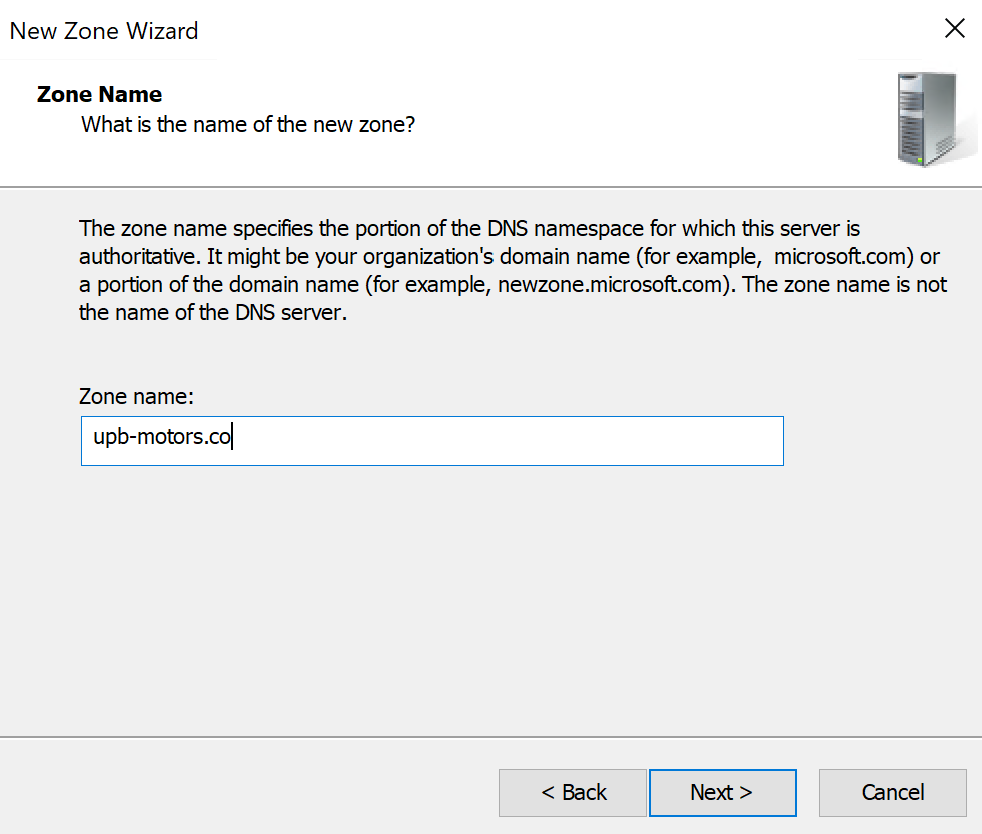
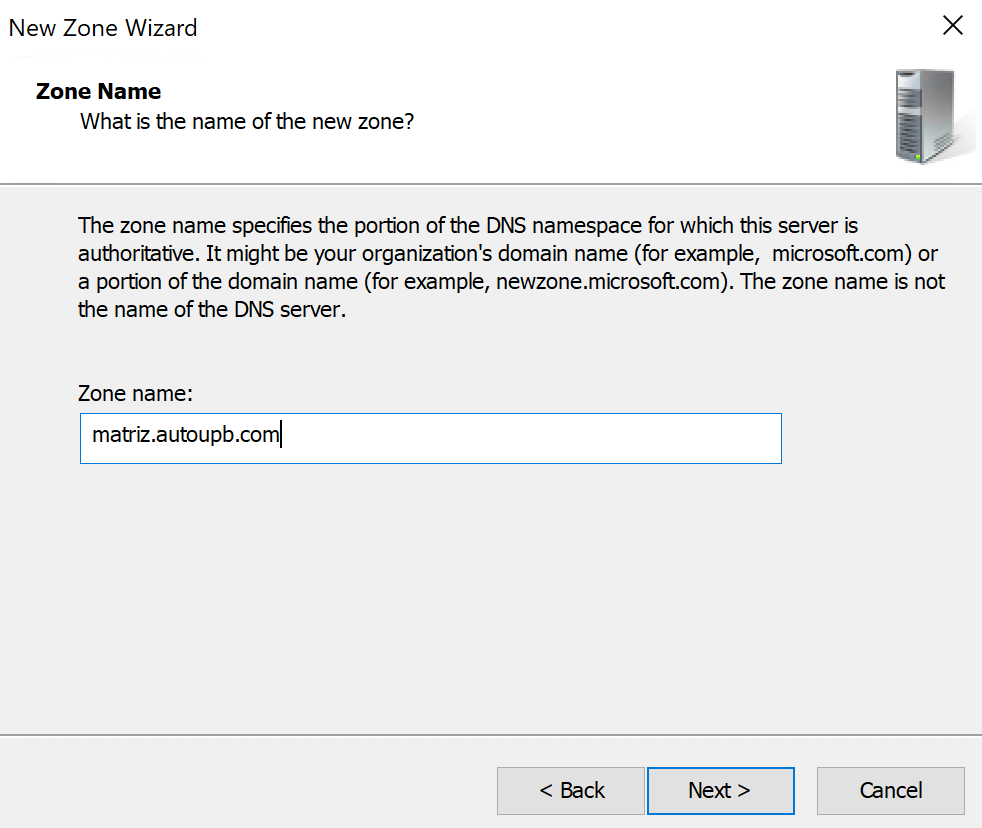
Complete documentation of Primary DNS server

diff --git a/SETUP.md b/SETUP.md
@@ -3,34 +3,34 @@
 ## IPs
 
 | Machine name | DHCP | Network           | IP                | Default gateway | DNS server     |
-| ------------ | ---- | ----------------- | ----------------- | --------------- | -------------- |
+|--------------|------|-------------------|-------------------|-----------------|----------------|
 | WS-1         | NO   | 192.168.101.48/29 | 192.168.101.50    | 192.168.101.49  | 192.168.101.50 |
-| WS-2         | NO   |                   |                   |                 |                |
+| WS-2         | NO   | 10.0.0.0/29       | 10.0.0.2          | 10.0.0.1        | 10.0.0.2       |
 | Deb-1        | NO   | 192.168.101.56/29 | 192.168.101.58    | 192.168.101.57  | 192.168.101.50 |
 | Employees    | YES  | 192.168.101.32/28 | 192.168.101.34-46 | 192.168.101.33  | 192.168.101.50 |
 
 ## IPs with Domains
 
-| Machine name | Service             | OS       | Domain            | Running IP      |
-| ------------ | ------------------- | -------- | ----------------- | --------------- |
-| WS-1         | FTP/FTPS            | Windows  | ftp.upb-motors.co | 192.168.101.50  |
-| WS-1         | Primary DNS         | Windows  | dc.upb-motors.co  | 192.168.101.50  |
-| WS-2         | Secondary DNS       | Windows? |                   | ?               |
-| WS-2         | HTTP Reverse Proxy  | Windows? |                   | ?               |
-| Deb-1        | All email services? | Debian?  |                   | 192.168.101.58? |
-| Deb-1        | HTTP/HTTPS          | Debian   | www.upb-motors.co | 192.168.101.58  |
-| Deb-1?       | VoIP                | Debian?  |                   | 192.168.101.58  |
+| Machine name | Service             | OS       | Type | Domain                   | Running IP      |
+| ------------ | ------------------- | -------- | ---- | ------------------------ | --------------- |
+| WS-1         | FTP/FTPS            | Windows  | A    | ftp.matriz.autoupb.com   | 192.168.101.50  |
+| WS-1         | Primary DNS         | Windows  | A    | ?                        | 192.168.101.50  |
+| WS-2         | Secondary DNS       | Windows? | ?    | ?                        | 10.0.0.2        |
+| WS-2         | Proxy               | Windows? | A    | proxy.matriz.autoupb.com | 10.0.0.2        |
+| Deb-1        | All email services? | Debian?  | MX   | mail.matriz.autoupb.com  | 192.168.101.58? |
+| Deb-1        | HTTP/HTTPS          | Debian   | A    | www.matriz.autoupb.com   | 192.168.101.58  |
+| Deb-1?       | VoIP                | Debian?  | A    | voip.matriz.autoupb.com  | 192.168.101.58  |
 
 ## Default Emails
 
-| User       | Domain        |
-| ---------- | ------------- |
-| aplicacion | upb-motors.co |
-| admin      | upb-motors.co |
-| gerente    | upb-motors.co |
-| inventario | upb-motors.co |
-| rh         | upb-motors.co |
-| ventas     | upb-motors.co |
+| User       | Domain             |
+| ---------- | ------------------ |
+| aplicacion | matriz.autoupb.com |
+| admin      | matriz.autoupb.com |
+| gerente    | matriz.autoupb.com |
+| inventario | matriz.autoupb.com |
+| rh         | matriz.autoupb.com |
+| ventas     | matriz.autoupb.com |
 
 ## Production
 
@@ -81,7 +81,7 @@ Using Windows server.
 9. Create SSL certificate.
 
 ```powershell
-New-SelfSignedCertificate -FriendlyName "selfsigned-upb-motors" -CertStoreLocation cert:\localmachine\my -DnsName upb-motors.com
+New-SelfSignedCertificate -FriendlyName "selfsigned-upb-motors" -CertStoreLocation cert:\localmachine\my -DnsName www.matriz.autoupb.com
 ```
 
 ![13](docs/images/13.png)
@@ -130,7 +130,7 @@ docker start upb-motors-production
 
 ### Primary DNS
 
-Using Windows Server.
+#### Using Windows Server.
 
 1. Add roles and features
 
@@ -188,15 +188,9 @@ Using Windows Server.
 
 <img src="docs/images/37.png" alt="37" style="zoom: 50%;" />
 
-13. Rename nameserver
+##### Services Domains
 
-<img src="docs/images/34.png" alt="34" style="zoom:50%;" />
-
-<img src="docs/images/38.png" alt="38" style="zoom:50%;" />
-
-#### Services Domains
-
-##### HTTP/HTTPS
+###### HTTP/HTTPS
 
 1. New Host **A**
 
@@ -206,17 +200,21 @@ Using Windows Server.
 
 <img src="docs/images/32.png" alt="32" style="zoom:50%;" />
 
-##### FTP/FTPS
+###### FTP/FTPS
 
-1. `ftp` name
+1. `ftp` name (A)
 
 <img src="docs/images/33.png" alt="33" style="zoom:50%;" />
 
-##### All mail services
+###### All mail services
 
-##### Domain Controller
+1. `mail` host (A)
 
-<img src="docs/images/39.png" alt="39" style="zoom:50%;" />
+<img src="docs/images/39.png" alt="40" style="zoom:50%;" />
+
+2. Mail exchange (MX)
+
+<img src="docs/images/40.png" alt="40" style="zoom:50%;" />
 
 ### Secondary DNS
 
